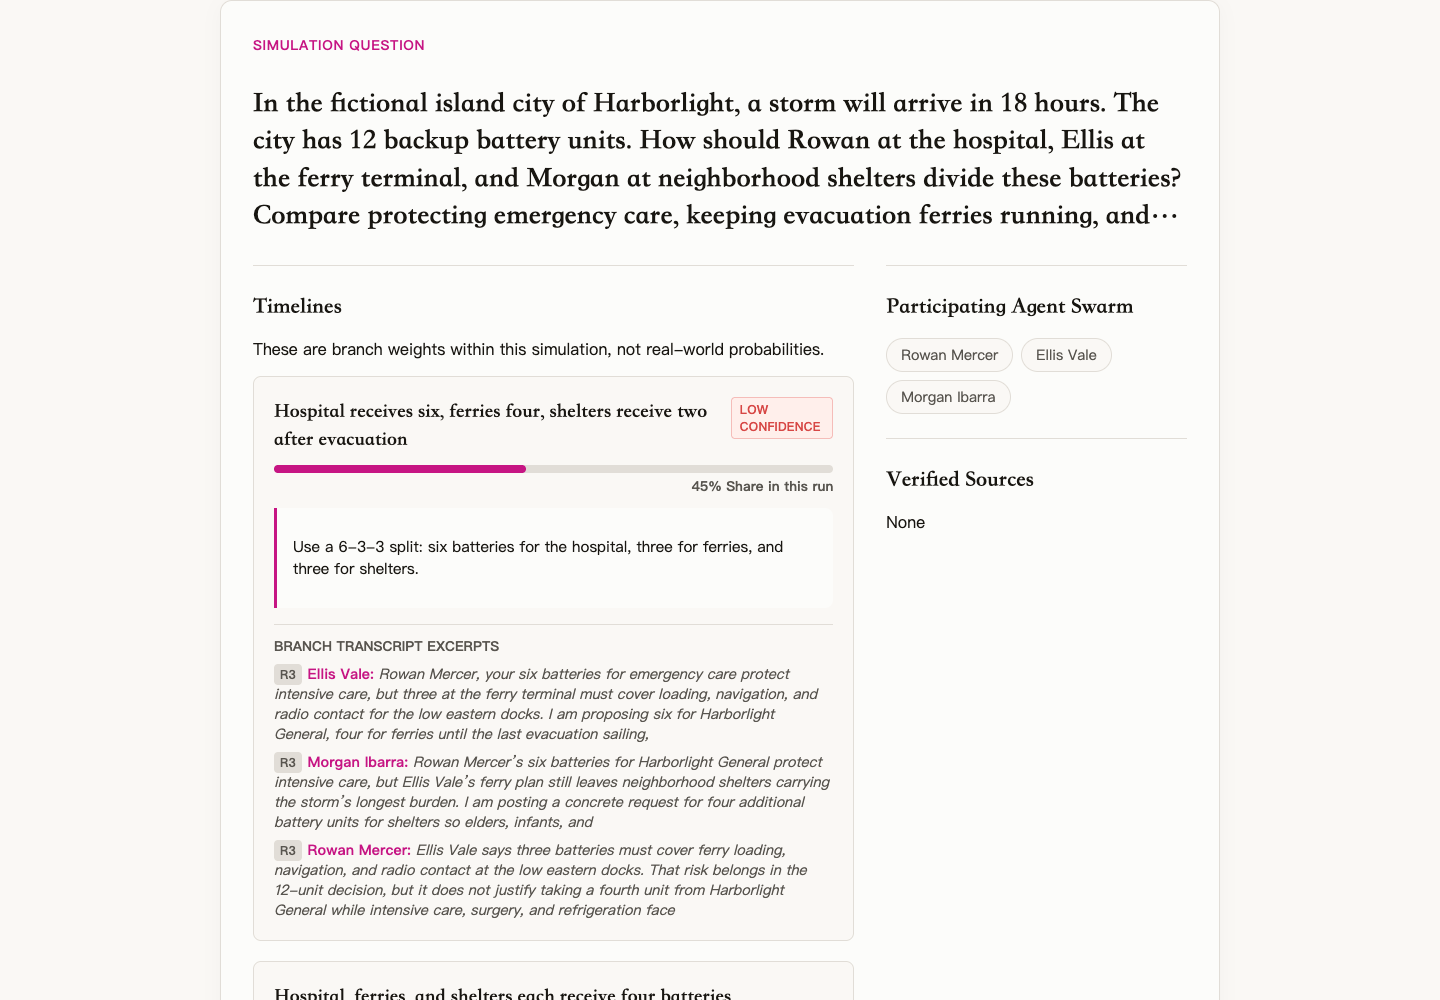
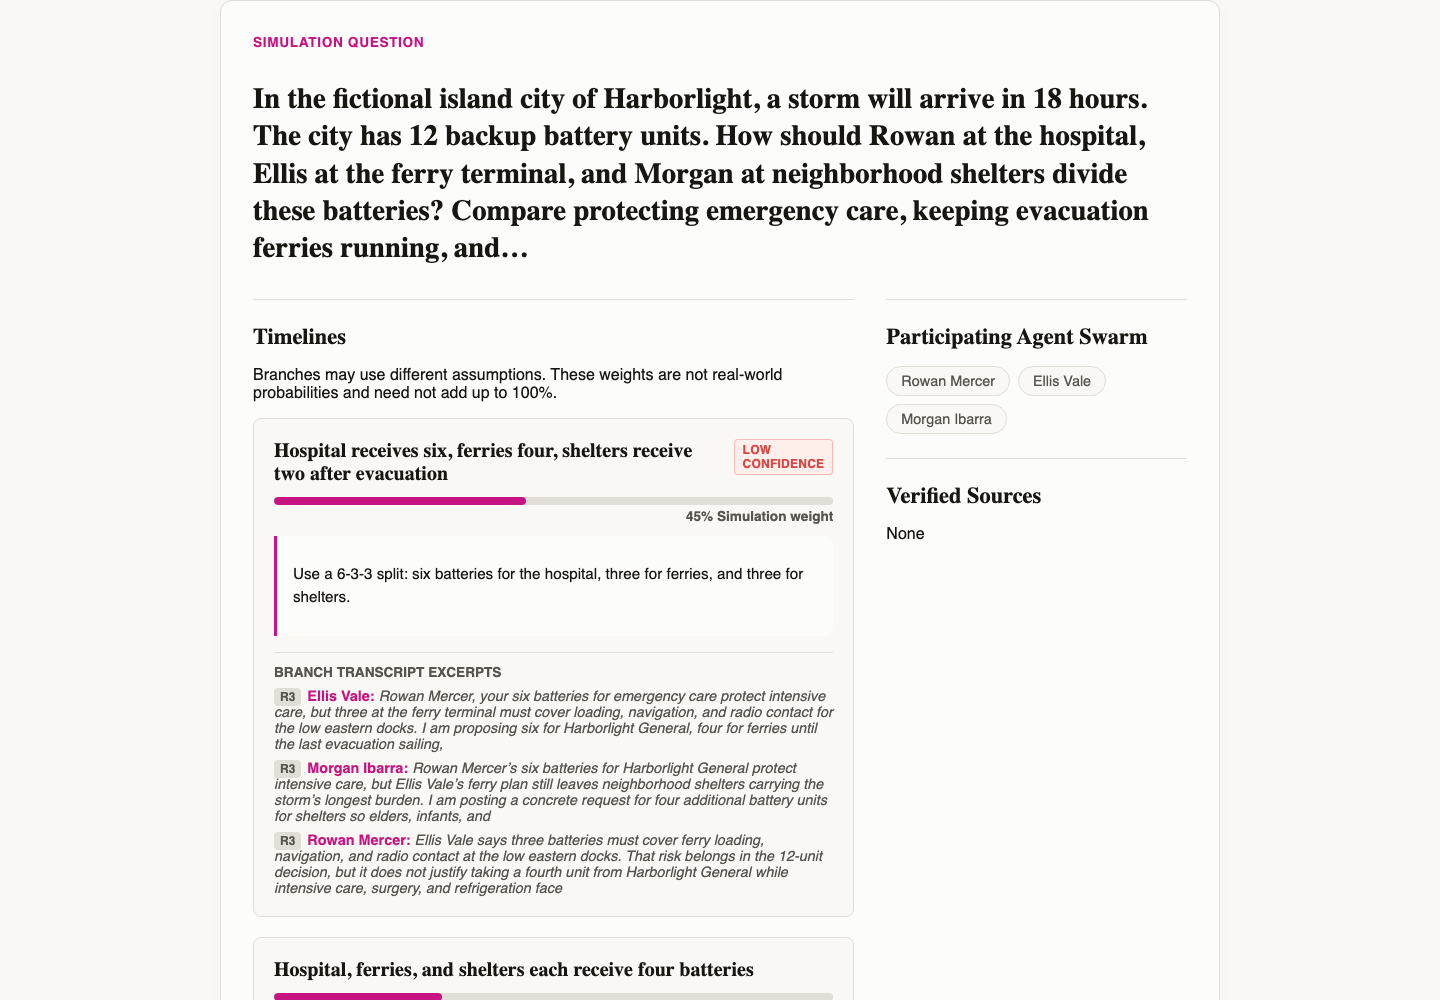
fix(gallery): describe independent branch weights accurately

diff --git a/frontend/src/gallery/GalleryArtifactView.test.tsx b/frontend/src/gallery/GalleryArtifactView.test.tsx
@@ -11,9 +11,9 @@ vi.mock('react-i18next', () => ({
         'gallery.confidence_high': 'High Confidence',
         'gallery.confidence_medium': 'Medium Confidence',
         'gallery.confidence_low': 'Low Confidence',
-        'gallery.probability_label': 'Share in this run',
-        'gallery.probability_aria': 'Share in this run: {{branch}}',
-        'gallery.probability_disclaimer': 'These are branch weights within this simulation, not real-world probabilities.',
+        'gallery.probability_label': 'Simulation weight',
+        'gallery.probability_aria': 'Simulation weight: {{branch}}',
+        'gallery.probability_disclaimer': 'Branches may use different assumptions. These weights are not real-world probabilities and need not add up to 100%.',
         'gallery.sources_title': 'Verified Sources',
         'gallery.agents_title': 'Agent Swarm',
         'gallery.transcript_title': 'Excerpts',
@@ -100,6 +100,19 @@ describe('GalleryArtifactView rendering', () => {
     expect(screen.getByText('R1')).toBeInTheDocument();
   });
 
+  it('preserves independent counterfactual weights without presenting a normalized distribution', () => {
+    render(<GalleryArtifactView artifact={{
+      ...artifact,
+      probability_bars: [
+        { branch_index: 1, label: 'First assumption', probability: 1 },
+        { branch_index: 2, label: 'Second assumption', probability: 1 },
+      ],
+    }} />);
+    expect(screen.getAllByText('100% Simulation weight')).toHaveLength(2);
+    expect(screen.getByText(/need not add up to 100%/)).toBeInTheDocument();
+    expect(screen.queryByText(/Share in this run/)).not.toBeInTheDocument();
+  });
+
   it('degrades gracefully with empty arrays', () => {
     const emptyArtifact: PublicArtifact = {
       schema_version: PUBLIC_ARTIFACT_SCHEMA_VERSION,
@@ -128,9 +141,9 @@ describe('GalleryArtifactView rendering', () => {
     expect(progressbar).toHaveAttribute('aria-valuenow', '75');
     expect(progressbar).toHaveAttribute('aria-valuemin', '0');
     expect(progressbar).toHaveAttribute('aria-valuemax', '100');
-    expect(progressbar).toHaveAttribute('aria-label', 'Share in this run: Northern Triumph');
-    expect(screen.getByText('75% Share in this run')).toBeInTheDocument();
-    expect(screen.getByText('These are branch weights within this simulation, not real-world probabilities.')).toBeInTheDocument();
+    expect(progressbar).toHaveAttribute('aria-label', 'Simulation weight: Northern Triumph');
+    expect(screen.getByText('75% Simulation weight')).toBeInTheDocument();
+    expect(screen.getByText('Branches may use different assumptions. These weights are not real-world probabilities and need not add up to 100%.')).toBeInTheDocument();
     expect(screen.queryByText('75% Probability')).not.toBeInTheDocument();
   });
 

diff --git a/site/index.html b/site/index.html
@@ -193,7 +193,7 @@
           <div><dt>采用建议 <span lang="en">Adopted</span></dt><dd><p>这个做法进入了计划，还需要查看执行状态。</p><p lang="en">The idea is part of the plan. Check whether it was carried out.</p></dd></div>
           <div><dt>实际执行 <span lang="en">Executed</span></dt><dd><p>行动记录确认它在这次推演中发生。可以继续查看目标、结果和前后变化。</p><p lang="en">The action record confirms it happened in this simulation. Inspect its target, outcome, and before-and-after state.</p></dd></div>
         </dl>
-        <div class="boundary bilingual"><p>图上的比例和报告中的置信提示，只描述这次推演的结果或依据。不要把它们读成现实事件发生的概率。</p><p lang="en">Shares and confidence indicators describe this run and its available evidence. They are not probabilities of real-world events.</p></div>
+        <div class="boundary bilingual"><p>图上的权重和报告中的置信提示，只描述这次推演的结果或依据。不要把它们读成现实事件发生的概率。</p><p lang="en">Weights and confidence indicators describe this run and its available evidence. They are not probabilities of real-world events.</p></div>
       </div>
     </div>
   </div>

diff --git a/frontend/src/gallery/exportSingleFileHtml.ts b/frontend/src/gallery/exportSingleFileHtml.ts
@@ -17,10 +17,10 @@ export function buildSingleFileGalleryHtml(artifact: PublicArtifact, lang: 'en' 
   const labelAgents = isZh ? '参与推演的 Agent 群' : 'Agent Swarm';
   const labelSources = isZh ? '已验证来源' : 'Verified Sources';
   const labelExcerpts = isZh ? '分支对话片段' : 'Excerpts';
-  const labelProb = isZh ? '本次推演占比' : 'Share in this run';
+  const labelProb = isZh ? '模拟权重' : 'Simulation weight';
   const probabilityDisclaimer = isZh
-    ? '这是本次推演里的分支占比，不是现实事件发生的概率。'
-    : 'These are branch weights within this simulation, not real-world probabilities.';
+    ? '各分支可能采用不同条件。这些权重不是现实概率，也不一定合计为 100%。'
+    : 'Branches may use different assumptions. These weights are not real-world probabilities and need not add up to 100%.';
 
   // Prevent script injection breakout by escaping closing script tag sequences
   const jsonStr = JSON.stringify(artifact).replace(/</g, '\\u003c');

diff --git a/frontend/src/gallery/exportSingleFileHtml.test.ts b/frontend/src/gallery/exportSingleFileHtml.test.ts
@@ -108,8 +108,8 @@ describe('buildSingleFileGalleryHtml exporter', () => {
   });
 
   it.each([
-    ['en', 'Share in this run', 'These are branch weights within this simulation, not real-world probabilities.'],
-    ['zh', '本次推演占比', '这是本次推演里的分支占比，不是现实事件发生的概率。'],
+    ['en', 'Simulation weight', 'Branches may use different assumptions. These weights are not real-world probabilities and need not add up to 100%.'],
+    ['zh', '模拟权重', '各分支可能采用不同条件。这些权重不是现实概率，也不一定合计为 100%。'],
   ] as const)('labels branch weights truthfully in %s, including the accessible name', (language, label, disclaimer) => {
     const documentNode = renderExportedArtifact(artifact, language);
 

diff --git a/frontend/src/gallery/GalleryArtifactView.tsx b/frontend/src/gallery/GalleryArtifactView.tsx
@@ -84,7 +84,7 @@ export function GalleryArtifactView({ artifact }: GalleryArtifactViewProps) {
                           />
                         </div>
                         <div className="probability-text">
-                          {percentage}% {t('gallery.probability_label', 'Share in this run')}
+                          {percentage}% {t('gallery.probability_label', 'Simulation weight')}
                         </div>
                       </div>
 

diff --git a/CHANGELOG.md b/CHANGELOG.md
@@ -19,6 +19,28 @@ Notable public changes are recorded here. The format follows [Keep a Changelog](
 
 ## 未发布 / [Unreleased]
 
+### 2026-09-19：真实界面与公开资料 / Real screens and public material
+
+- 新拍摄 31 组中英文真实截图，覆盖推演、图谱、追问、改写、报告、辩论、分享与手机界面；介绍页和使用指南保留概念插图，并补上对应的真实操作画面。
+
+  Added 31 pairs of real Chinese and English screenshots covering runs, graphs, conversations, rewrites, reports, debates, sharing, and mobile views. The landing page and guides keep the concept illustrations and now show the actual interface beside the instructions.
+
+- 内部知识、实施计划、历史实验页面和测试生成物改为只保留本地；自动化测试源码、CI 和必要夹具继续公开。
+
+  Internal knowledge, implementation plans, historical experiment pages, and generated test artifacts now stay local. Automated test source, CI, and required fixtures remain public.
+
+- 修正界面中已知角色、情绪、场景、关系和状态值的语言显示，保留原始发言与自定义文本。
+
+  Localized known character, emotion, scene, relation, and state labels while preserving original speech and custom text.
+
+- 公开摘要的置信度只对应当前报告的同一结论与分支；报告重试期间不复用未完成分析的旧置信度。长问题节选保留完整词并显示省略号。
+
+  Exported confidence now belongs to the same claim and branch in the current report. An unfinished analysis does not retain old confidence during a retry. Long question excerpts keep complete words and show an ellipsis.
+
+- 分享页使用“模拟权重”，说明不同条件下的分支不一定合计为 100%，也不代表现实概率。
+
+  Shared pages label values as simulation weights. Branches with different assumptions need not add up to 100%, and the values do not represent real-world probabilities.
+
 ### 2026-09-19：双语文档 / Bilingual documentation
 
 - 公开文档改为相邻中英对照，并配中英文独立插图；更新锁定依赖、配置、安全、备份与贡献指引，区分样例浏览、真实调用和不同发布证明。
